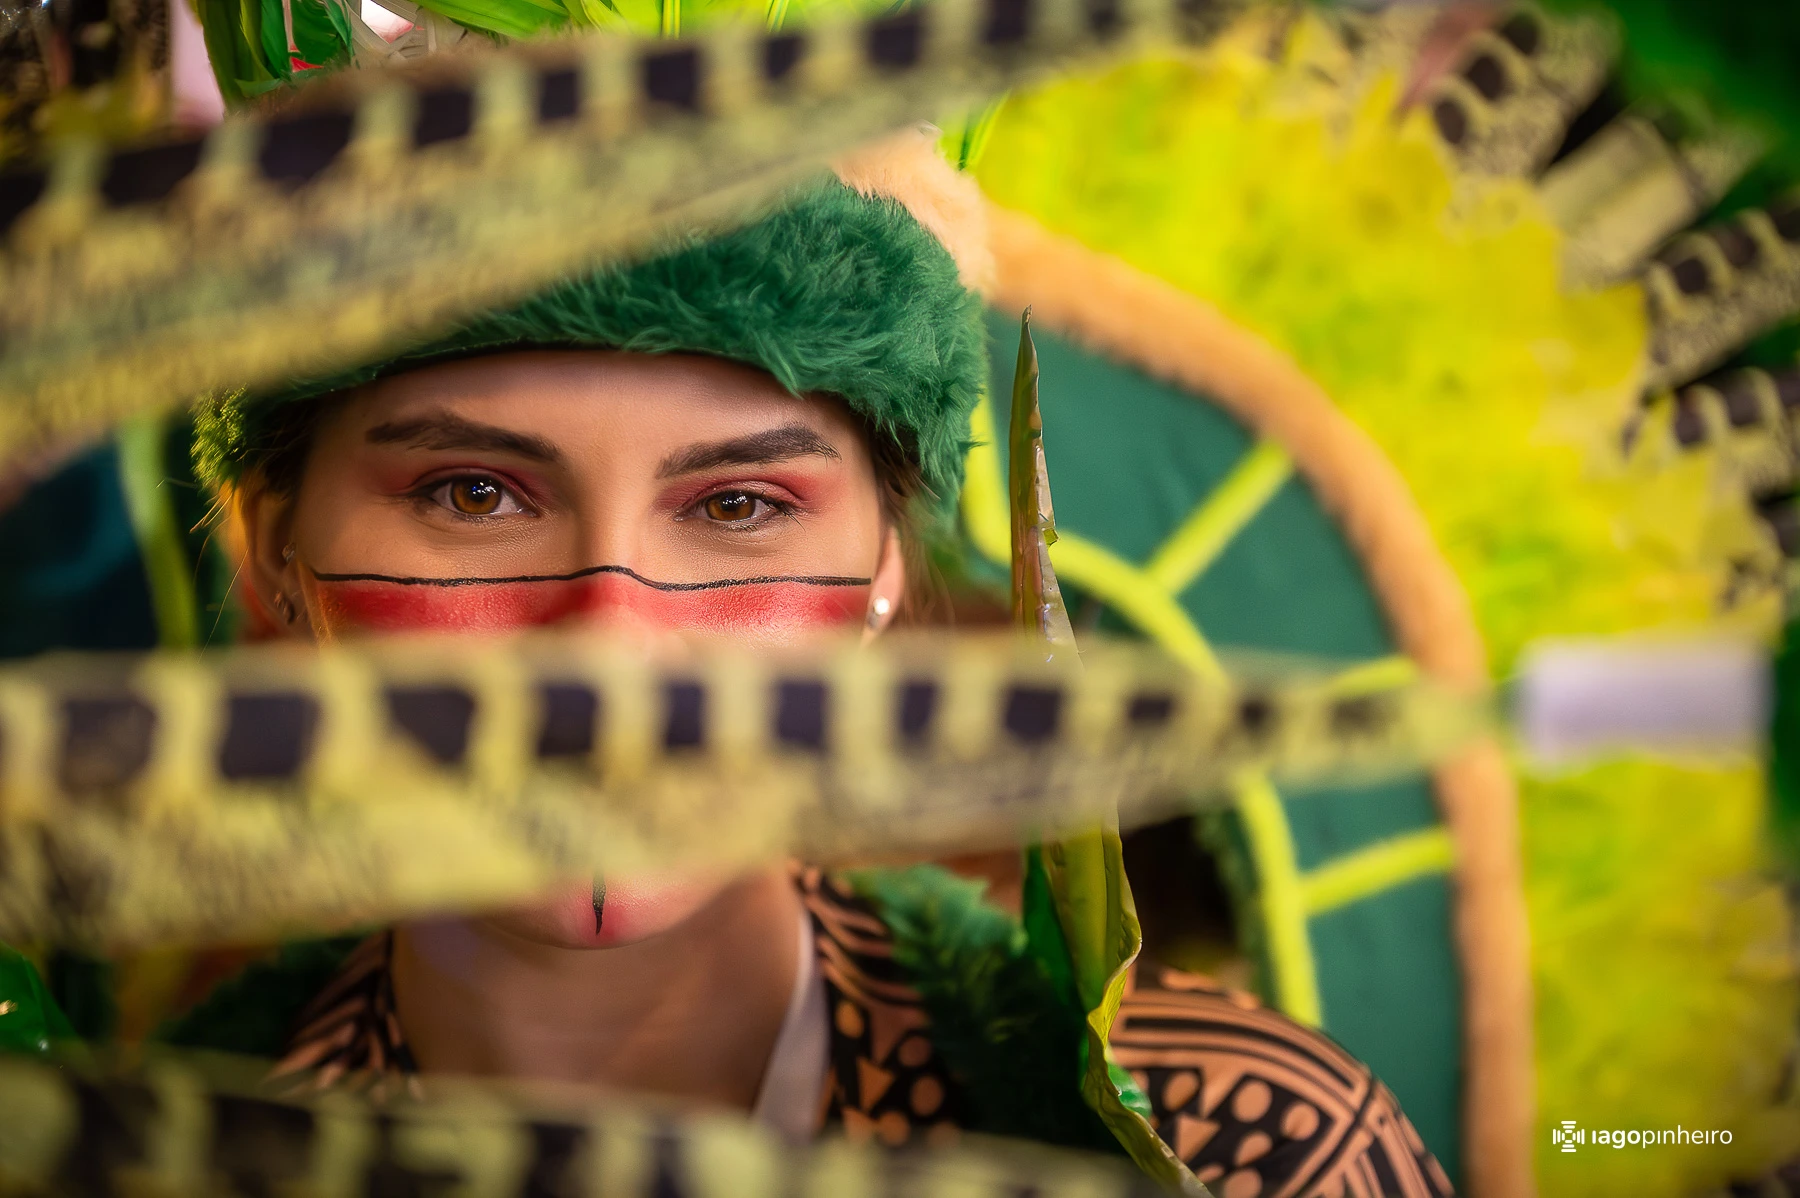
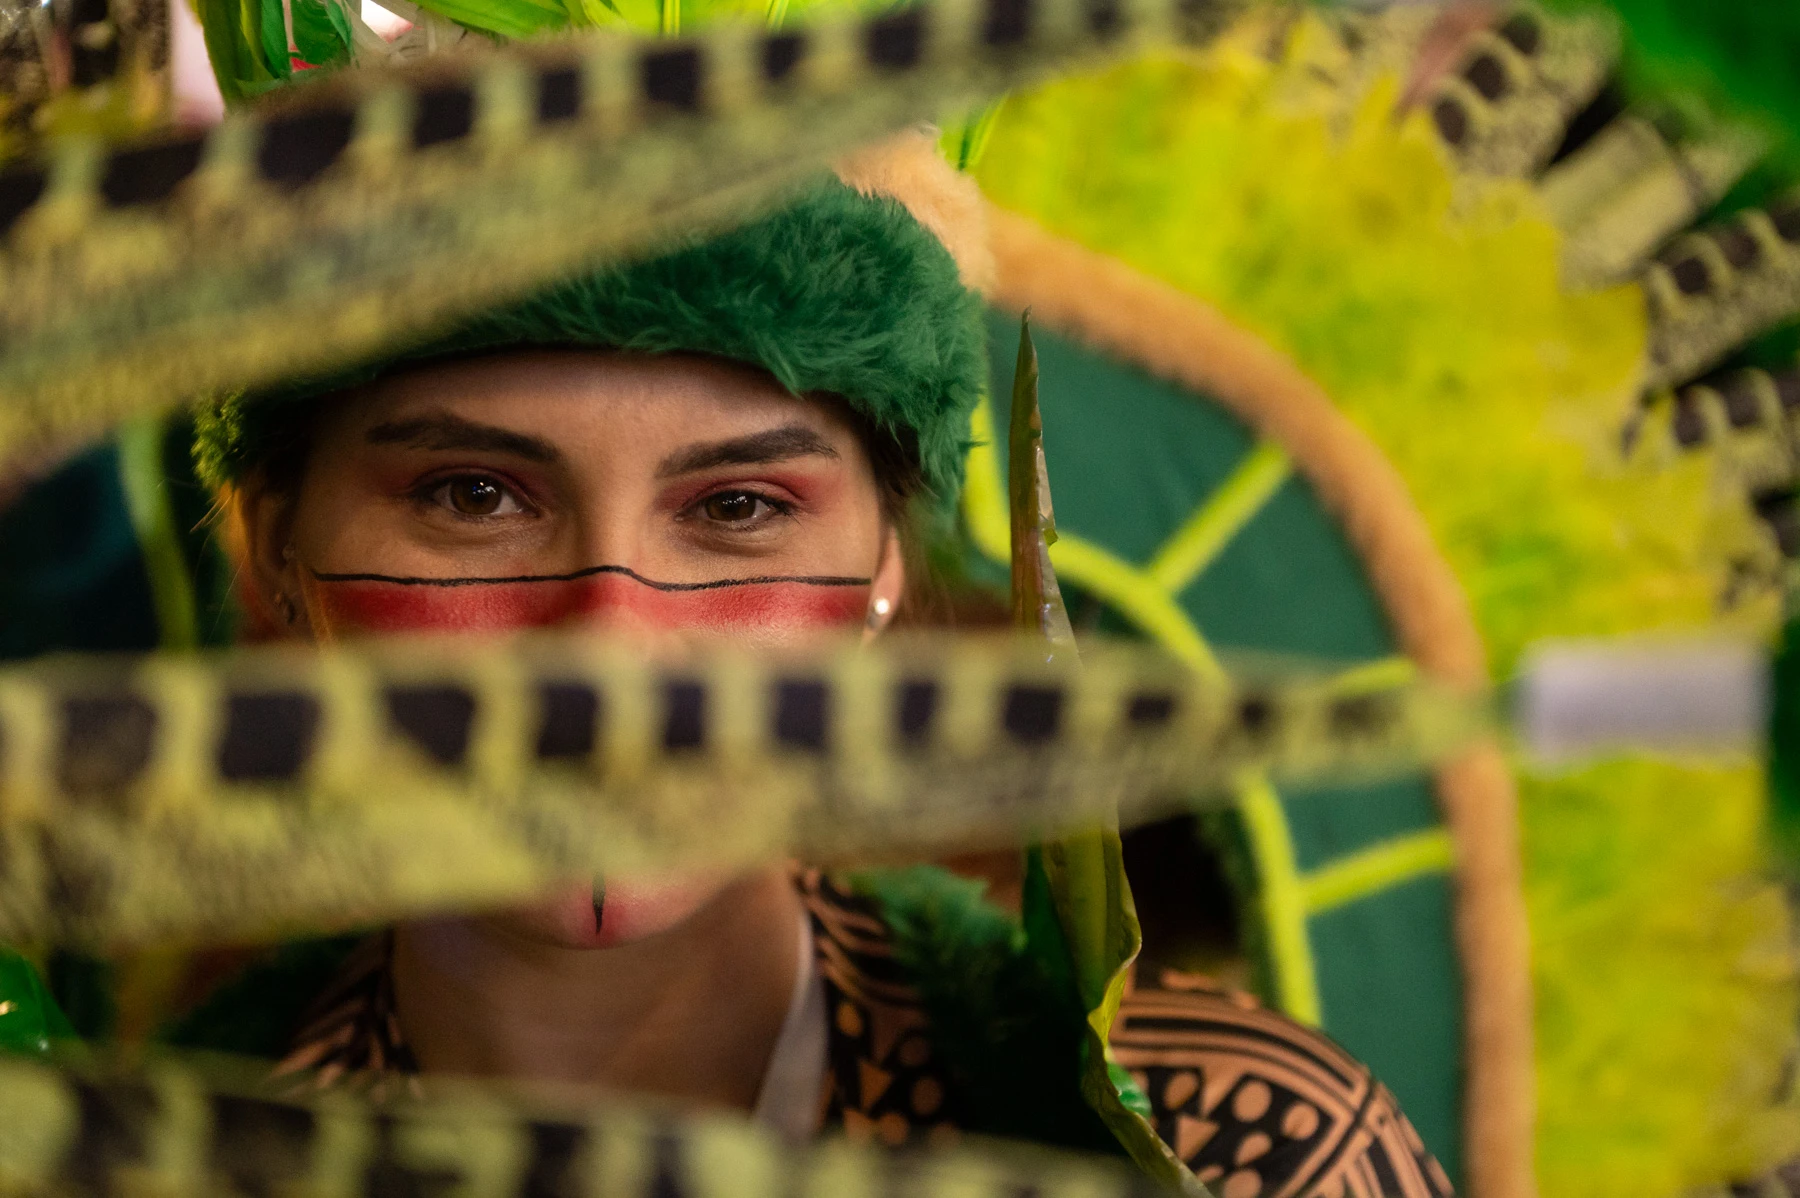
Reorganiza estrutura do projeto e atualiza arquivos do site

diff --git a/sobre.html b/sobre.html
@@ -244,7 +244,7 @@
                                 <div
                                     class="ashade-before-after"
                                     data-img-before="img/general/before.webp"
-                                    data-img-after="img/general/after.png"
+                                    data-img-after="img/general/after.webp"
                                 >
                                     <img
                                         src="img/general/before.webp"
